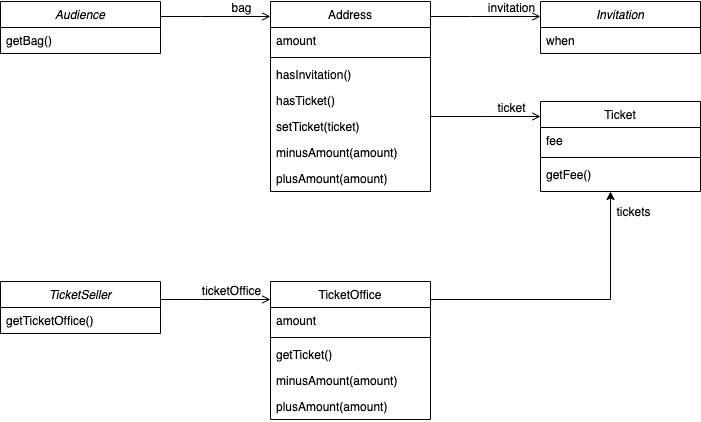
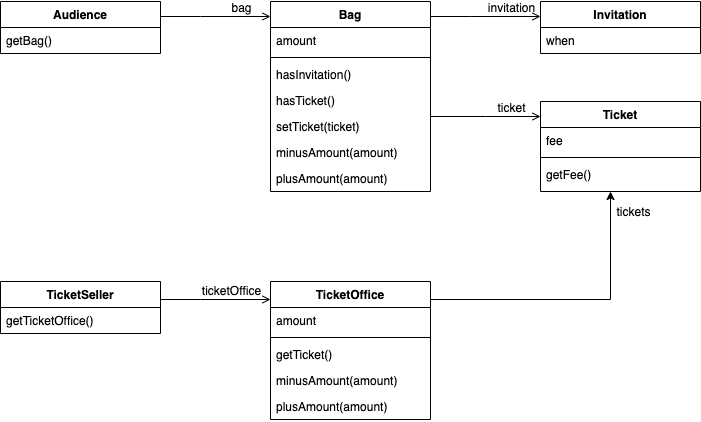
refactor: Theater의 결합도를 낮추기 위한 개선
- 관람객이 티켓을 가방에 넣고 금액을 지불하는 기능 추가(Audience)
- 판매원이 티켓을 판매하는 기능 추가(TicketSeller)
- 소극장에서 관람객을 입장시키는 기능 개선(Theater)
- 변경된 클래스 다이어그램 이미지 추가
- README.md 파일에 설명 추가

diff --git a/01. 객체, 설계/src/Theater.java b/01. 객체, 설계/src/Theater.java
@@ -13,14 +13,6 @@ public class Theater {
 	 * @param audience 관람객
 	 */
 	public void enter(Audience audience) {
-		if (audience.getBag().hasInvitation()) {
-			Ticket ticket = ticketSeller.getTicketOffice().getTicket();
-			audience.getBag().setTicket(ticket);
-		} else {
-			Ticket ticket = ticketSeller.getTicketOffice().getTicket();
-			audience.getBag().minusAmount(ticket.getFee());
-			ticketSeller.getTicketOffice().plusAmount(ticket.getFee());
-			audience.getBag().setTicket(ticket);
-		}
+		ticketSeller.sellTo(audience);
 	}
 }

diff --git a/01. 객체, 설계/src/Audience.java b/01. 객체, 설계/src/Audience.java
@@ -9,7 +9,19 @@ public class Audience {
 		this.bag = bag;
 	}
 
-	public Bag getBag() {
-		return bag;
+	/**
+	 * 티켓을 가방에 넣은 후 지불된 금액을 반환한다.
+	 * @param ticket 티켓
+	 * @return 지불된 금액
+	 */
+	public Long buy(Ticket ticket) {
+		if (bag.hasInvitation()) {
+			bag.setTicket(ticket);
+			return 0L;
+		} else {
+			bag.setTicket(ticket);
+			bag.minusAmount(ticket.getFee());
+			return ticket.getFee();
+		}
 	}
 }

diff --git a/01. 객체, 설계/src/TicketSeller.java b/01. 객체, 설계/src/TicketSeller.java
@@ -13,7 +13,11 @@ public class TicketSeller {
 		this.ticketOffice = ticketOffice;
 	}
 
-	public TicketOffice getTicketOffice() {
-		return ticketOffice;
+	/**
+	 * 티켓을 판매한다.
+	 * @param audience 관람객
+	 */
+	public void sellTo(Audience audience) {
+		ticketOffice.plusAmount(audience.buy(ticketOffice.getTicket()));
 	}
 }

diff --git a/01. 객체, 설계/README.md b/01. 객체, 설계/README.md
@@ -11,4 +11,48 @@
 
 ## 구현
 - 애플리케이션 핵심 클래스  
-  ![classDiagram](https://user-images.githubusercontent.com/51159167/155091239-ae2ec565-a04f-41b0-94b5-19a73099908b.png)
+  ![classDiagram](https://user-images.githubusercontent.com/51159167/155103641-21139463-8591-41e9-acef-48607cb49eb9.png)
+
+## 무엇이 문제인가?
+
+로버트 마틴에 따르면 모든 모듈은 제대로 실행되야 하고, 변경이 용이해야 하며, 이해하기 쉬워야 한다.  
+앞에서 작성한 프로그램은 관람객들을 입장시키는 데 필요한 기능을 오류 없이 정확하게 수행하고 있다. 따라서 제대로 동작해야 한다는 제약은 만족시킨다.   
+하지만 불행하게도 변경 용이성과 읽는 사람과의 의사소통이라는 목적은 만족시키지 못한다.
+
+**예상을 빗나가는 코드**
+- Theater 클래스의 문제는 관람객과 판매원의 소극장의 통제를 받는 수동적인 존재라는 점이다.
+  - 관람객의 입장에서 문제는 소극장이라는 제 3자가 초대장을 확인하기 위해 관람객의 가방을 마음대로 열어본다는 데 있다.
+  - 판매원의 입장에서 문제는 소극장이 허락도 없이 매표소에 보관중인 티켓과 현금에 마음대로 접근한다는 데 있다.
+- 코드를 이해하기 어렵게 만드는 이유는 
+  1. 우리의 상식과 너무나도 다르게 동작하기 때문에 코드를 읽는 사람과 제대로 의사소통 하지 못한다.
+  2. 이 코드를 이해하기 위해서는 여러 가지 세부적인 내용들을 한꺼번에 기억하고 있어야 한다는 점이다.  
+     하나의 클래스나 메소드에서 너무 많은 세부사항을 다루기 때문에 코드를 작성하는 사람 뿐만 아니라 코드를 읽고 이해해야 하는 사람 모두에게 큰 부담을 준다.
+  
+**변경에 취약한 코드**
+- 가장 심각한 문제는 변경에 취약하다는 점이다. Audience와 TicketSeller를 변경할 경우 Theater도 함께 변경해야 한다.
+- 너무 많은 클래스에 의존하는 Theater   
+  ![ClassDiagram(Theater)](https://user-images.githubusercontent.com/51159167/155100025-08849e37-b963-46c5-b579-93ac5f7f2fec.png)
+
+
+## 설계 개선하기
+- 코드를 이해하기 어려운 이유는 의도를 정확하게 의사 소통하지 못하기 때문이다.  
+  (관람객과 판매원이 자신의 일을 스스로 처리하지 않고 Theater가 관람객의 가방과 판매원의 매표소에 직접 접근하여 처리하여 우리의 예상을 벗어남)
+- Audience와 TicketSeller를 변경할 때 Theater도 함께 변경해야 하기 때문에 전체적으로 코드를 변경하기도 어려워진다.
+- 해결 방법은 Theater가 Audience와 TicketSeller에 관해 너무 세세한 부분까지 알지 못하도록 정보를 차단하면 된다.
+- 즉, 관람객과 판매원을 **자율적인 존재**로 만들면 되는 것이다.
+- Theater의 결합도를 낮춘 설계   
+  ![ClassDiagram(Theater) -  Lower the Coupling](https://user-images.githubusercontent.com/51159167/155099784-bd888152-f285-4aa6-a6e3-54ec0da2e25a.png)
+
+
+- 자율적인 Audience와 TicketSeller로 구성된 설계   
+  ![classDiagram(improvement)](https://user-images.githubusercontent.com/51159167/155101800-638f9b24-faf2-45a3-a2e7-081071f56749.png)
+
+## 무엇이 개선됐는가
+- 초기 코드와 마찬가지로 관람객들을 입장시키는 데 필요한 기능을 오류없이 수행한다. (동작 수행)
+- 수정된 Audience와 TicketSeller는 자신이 가지고 있는 소지품을 스스로 관리한다. (코드를 읽는 사람과의 의사소통)
+- Audience와 TicketSeller의 내부 구현을 변경하더라도 Theater를 함께 변경할 필요가 없어졌다. (변경 용이성)
+
+## 어떻게 한 것인가?
+- 판매자가 티켓을 판매하기 위해 TicketOffice를 사용하는 모든 부분을 TicketSeller 내부로 옮기고, 관람객이 티켓을 구매하기 위해 Bag을 사용하는 모든 부분은 Audience 내부로 옮겼다.
+- 즉, 자기 자신의 문제를 스스로 해결하도록 코드를 변경한 것이다.
+- 객체의 자율성을 높이는 방향으로 설계를 개선했다. 그 결과, 이해하기 쉽고 유연한 설계를 얻을 수 있었다.
